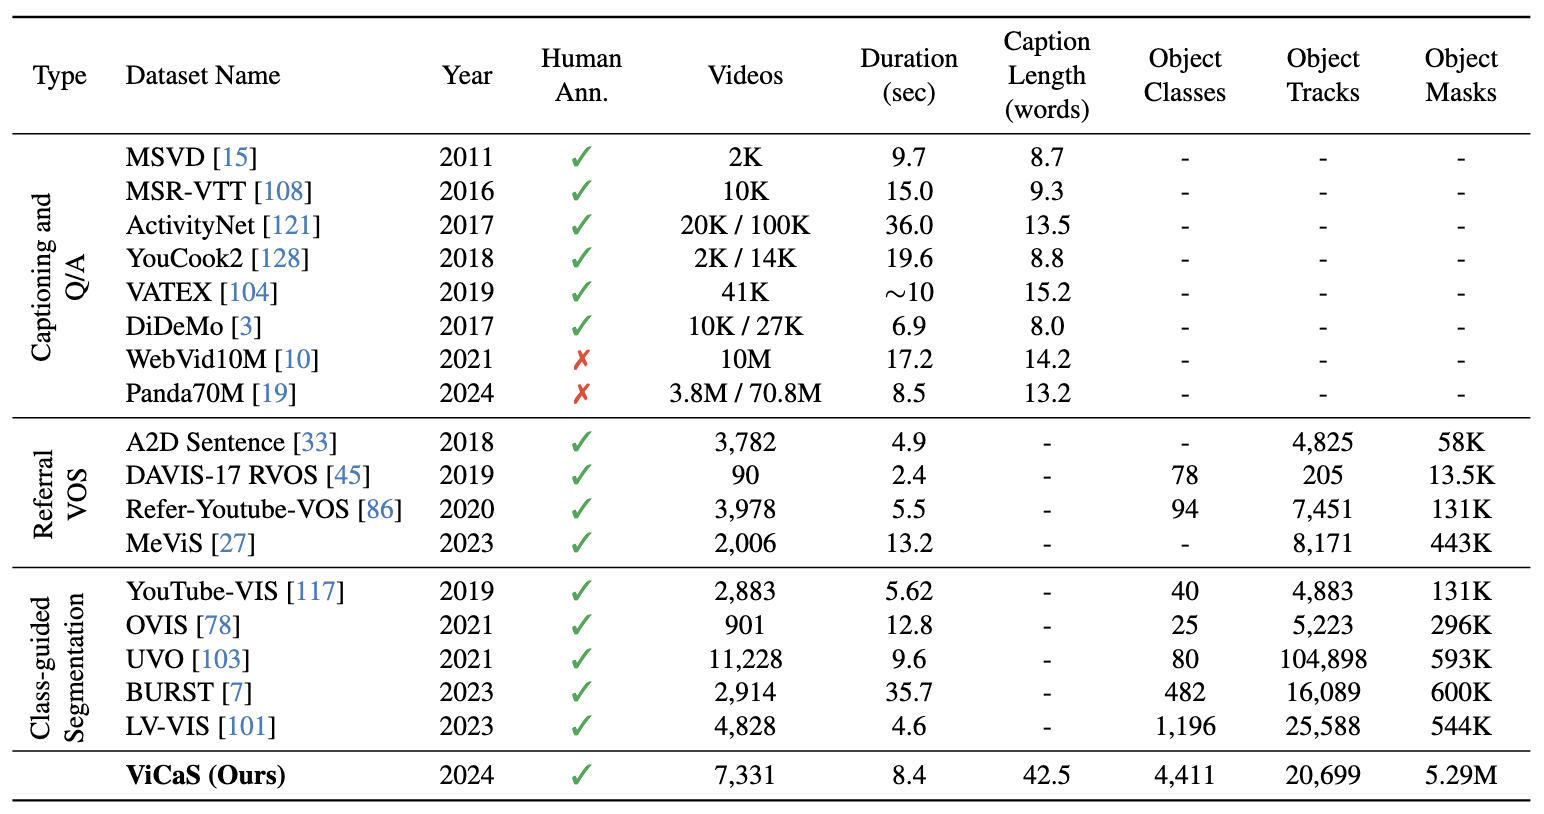
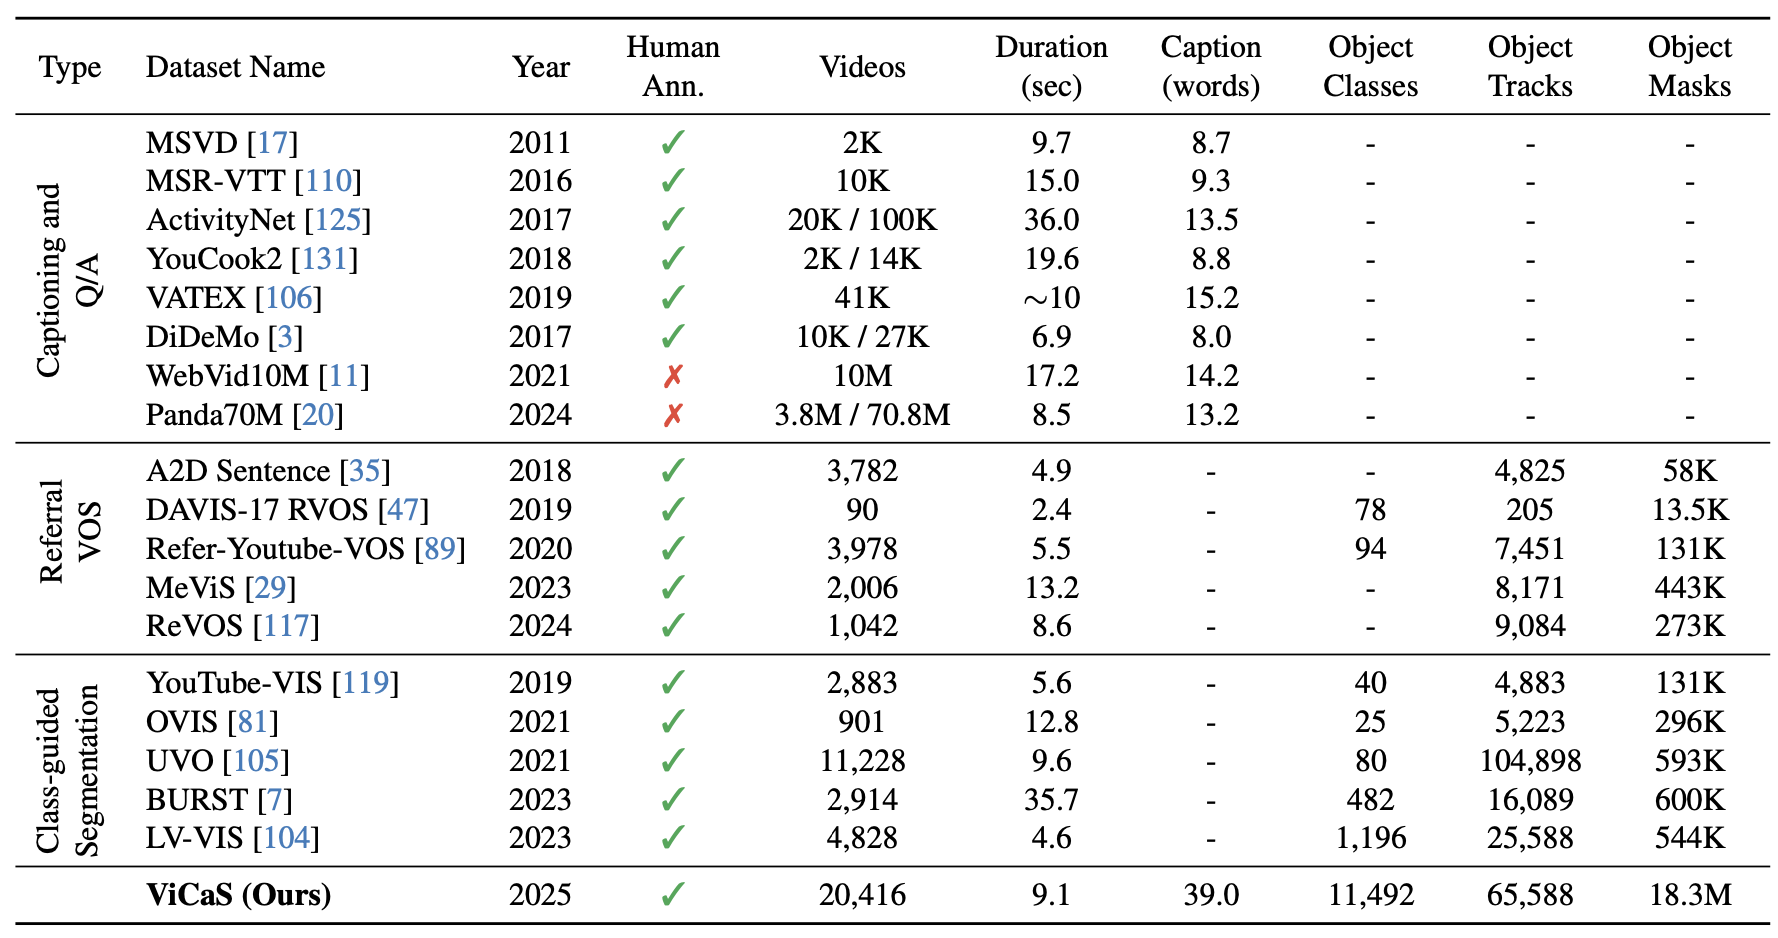
updated dataset table  according to v1

diff --git a/index.html b/index.html
@@ -189,7 +189,7 @@
         <h2 class="title is-3">Abstract</h2>
         <div class="content has-text-justified">
           <p>
-            Recent advances in multimodal large language models (MLLMs) have expanded research in video understanding, primarily focusing on high-level tasks such as video captioning and question-answering. Meanwhile, a smaller body of work addresses dense, pixel-precise segmentation tasks, which typically involve category-guided or referral-based object segmentation. Although both research directions are essential for developing models with human-level video comprehension, they have largely evolved separately, with distinct benchmarks and architectures. This paper aims to unify these efforts by introducing \ourDataset{}, a new dataset containing thousands of challenging videos, each annotated with detailed, human-written captions and temporally consistent, pixel-accurate masks for multiple objects with phrase grounding. Our benchmark evaluates models on both holistic/high-level understanding and language-guided, pixel-precise segmentation. We also present carefully validated evaluation measures and propose an effective model architecture that can tackle our benchmark.
+            Recent advances in multimodal large language models (MLLMs) have expanded research in video understanding, primarily focusing on high-level tasks such as video captioning and question-answering. Meanwhile, a smaller body of work addresses dense, pixel-precise segmentation tasks, which typically involve category-guided or referral-based object segmentation. Although both research directions are essential for developing models with human-level video comprehension, they have largely evolved separately, with distinct benchmarks and architectures. This paper aims to unify these efforts by introducing ViCaS, a new dataset containing thousands of challenging videos, each annotated with detailed, human-written captions and temporally consistent, pixel-accurate masks for multiple objects with phrase grounding. Our benchmark evaluates models on both holistic/high-level understanding and language-guided, pixel-precise segmentation. We also present carefully validated evaluation measures and propose an effective model architecture that can tackle our benchmark.
           </p>
         </div>
       </div>
